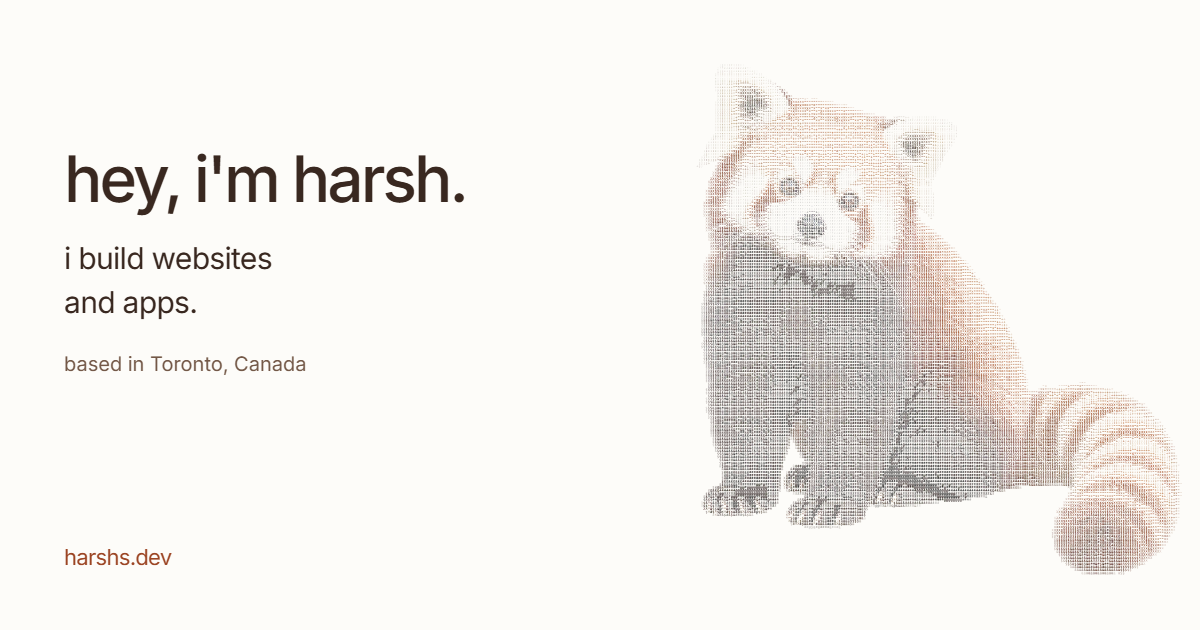
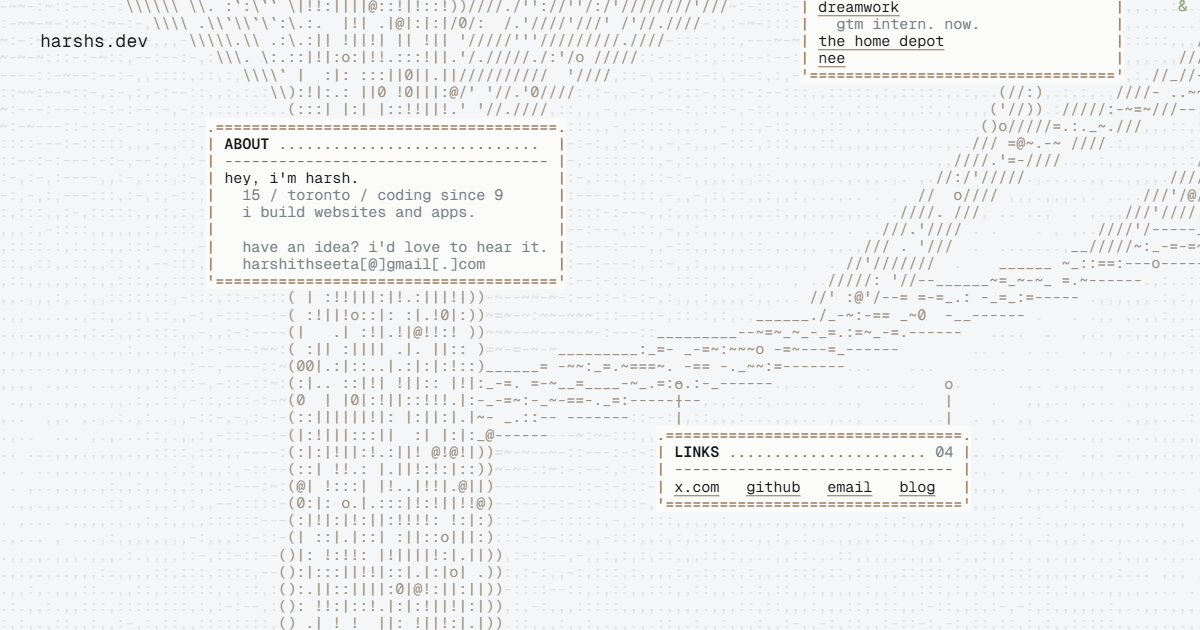
Fit tree to phones, drop recipes, open deep links on the right branch, new OG image

diff --git a/app/components/tree/TreeWorld.tsx b/app/components/tree/TreeWorld.tsx
@@ -1,34 +1,58 @@
 "use client";
 
-import { useCallback, useEffect, useRef, useState } from "react";
+import { useCallback, useEffect, useRef, useState, useSyncExternalStore } from "react";
 import Sign, { type SignData } from "./Sign";
 import type { Station } from "./content";
 import ThemeToggle from "./ThemeToggle";
 
 const ARROW: Record<string, string> = { left: "<-", right: "->", up: "^", down: "v" };
+const PHONE = 640;
+const CW = 0.6; // column width in em
+const LH = 1.143; // row height in em
+
+const onHash = (cb: () => void) => {
+  window.addEventListener("hashchange", cb);
+  return () => window.removeEventListener("hashchange", cb);
+};
+const onResize = (cb: () => void) => {
+  window.addEventListener("resize", cb);
+  return () => window.removeEventListener("resize", cb);
+};
 
 export default function TreeWorld({ html, signs, stations }: { html: string; signs: SignData[]; stations: Station[] }) {
-  const [at, setAt] = useState(() => {
-    if (typeof window === "undefined") return "start";
-    const h = window.location.hash.slice(1);
-    return stations.some((s) => s.id === h) ? h : "start";
-  });
-  const [dragging, setDragging] = useState(false);
+  const hash = useSyncExternalStore(onHash, () => location.hash.slice(1), () => "");
+  const vw = useSyncExternalStore(onResize, () => window.innerWidth, () => 1440);
+  const phone = vw < PHONE;
+  const at = stations.some((s) => s.id === hash) ? hash : "start";
+  const base = stations.find((s) => s.id === at) ?? stations[0];
+  const st = phone && base.phone ? { ...base, ...base.phone } : base;
+
+  const font = phone ? 11 : 15;
+  const scale = phone ? Math.min(1.3, (vw - 24) / (st.fit * CW * font)) : 1;
+
   const [drag, setDrag] = useState({ x: 0, y: 0 });
+  const [dragging, setDragging] = useState(false);
   const dragRef = useRef<{ sx: number; sy: number; ox: number; oy: number } | null>(null);
-  const st = stations.find((s) => s.id === at) ?? stations[0];
+  const worldRef = useRef<HTMLDivElement>(null);
+
+  // First paint lands on the right branch with no pan, then motion turns on.
+  useEffect(() => {
+    const el = worldRef.current;
+    const id = requestAnimationFrame(() => requestAnimationFrame(() => el?.classList.add("is-ready")));
+    return () => cancelAnimationFrame(id);
+  }, []);
 
   const go = useCallback((id: string) => {
     setDrag({ x: 0, y: 0 });
-    setAt(id);
-    if (typeof history !== "undefined") history.replaceState(null, "", id === "start" ? "/" : `/#${id}`);
+    const url = id === "start" ? location.pathname : `#${id}`;
+    history.replaceState(null, "", url);
+    window.dispatchEvent(new HashChangeEvent("hashchange"));
   }, []);
 
   useEffect(() => {
     const onKey = (e: KeyboardEvent) => {
       const dir = { ArrowLeft: "left", ArrowRight: "right", ArrowUp: "up", ArrowDown: "down" }[e.key];
-      if (!dir) return;
-      const n = st.nav.find((x) => x.dir === dir);
+      const n = dir && st.nav.find((x) => x.dir === dir);
       if (n) {
         e.preventDefault();
         go(n.to);
@@ -36,7 +60,7 @@ export default function TreeWorld({ html, signs, stations }: { html: string; sig
     };
     window.addEventListener("keydown", onKey);
     return () => window.removeEventListener("keydown", onKey);
-  }, [st, go]);
+  }, [st.nav, go]);
 
   const onDown = (e: React.PointerEvent) => {
     if ((e.target as HTMLElement).closest("a,button")) return;
@@ -55,12 +79,16 @@ export default function TreeWorld({ html, signs, stations }: { html: string; sig
     setDragging(false);
   };
 
+  const tx = -st.cx * CW * font;
+  const ty = -st.cy * LH * font;
+
   return (
-    <div className="tree-shell" onPointerDown={onDown} onPointerMove={onMove} onPointerUp={onUp} onPointerCancel={onUp}>
+    <div className="tree-shell" style={{ fontSize: font }} onPointerDown={onDown} onPointerMove={onMove} onPointerUp={onUp} onPointerCancel={onUp}>
       <div
+        ref={worldRef}
         className={`tree-world${dragging ? " is-dragging" : ""}`}
         style={{
-          transform: `translate(calc(50vw - ${st.cx} * var(--cw) + ${drag.x}px), calc(50svh - ${st.cy} * var(--lh) + ${drag.y}px))`,
+          transform: `translate(calc(50vw + ${drag.x}px), calc(${phone ? "45svh" : "50svh"} + ${drag.y}px)) scale(${scale}) translate(${tx}px, ${ty}px)`,
         }}
       >
         <pre className="tree-art" aria-hidden="true" dangerouslySetInnerHTML={{ __html: html }} />

diff --git a/app/components/tree/content.ts b/app/components/tree/content.ts
@@ -5,8 +5,25 @@ export type Station = {
   id: string;
   cx: number;
   cy: number;
-  nav: { label: string; to: string; dir: "left" | "right" | "up" | "down" }[];
+  fit: number; // columns that must fit on screen
+  nav: Nav[];
+  phone?: { cx: number; cy: number; fit: number; nav: Nav[] };
 };
+
+type Nav = { label: string; to: string; dir: "left" | "right" | "up" | "down" };
+
+function wrap(text: string, w: number) {
+  const out: string[] = [];
+  let line = "";
+  for (const word of text.split(" ")) {
+    if (line && (line + " " + word).length > w) {
+      out.push(line);
+      line = word;
+    } else line = line ? `${line} ${word}` : word;
+  }
+  if (line) out.push(line);
+  return out;
+}
 
 export type PostLink = { slug: string; title: string; date: string };
 
@@ -37,7 +54,7 @@ export function buildTree(posts: PostLink[]) {
     ],
   };
 
-  const links = hangUnder("links", "start", "LINKS", limbs.links, 31, [
+  const links = hangUnder("links", "links", "LINKS", limbs.links, 31, [
     {
       kind: "links",
       links: [
@@ -67,30 +84,13 @@ export function buildTree(posts: PostLink[]) {
   const writingRows: SignRow[] = [];
   posts.forEach((p, i) => {
     if (i) writingRows.push({ kind: "gap" });
-    writingRows.push({ kind: "item", text: p.title.toLowerCase(), href: `/blog/${p.slug}` });
+    for (const line of wrap(p.title.toLowerCase(), 40)) writingRows.push({ kind: "item", text: line, href: `/blog/${p.slug}` });
     writingRows.push({ kind: "sub", text: p.date.replace(/-/g, ".") });
   });
-  const ww = Math.min(64, Math.max(30, ...posts.map((p) => p.title.length)));
+  const ww = 40;
   const writing = hangUnder("writing", "writing", "WRITING", limbs.writing, ww, writingRows, String(posts.length).padStart(2, "0"), 3);
 
-  const recipes: SignData = {
-    id: "recipes",
-    station: "roots",
-    title: "FAV RECIPES",
-    count: "04",
-    w: 30,
-    hang: 0,
-    x: 262,
-    y: 166,
-    rows: [
-      { kind: "item", text: "gnocchi" },
-      { kind: "item", text: "white sauce rigatoni" },
-      { kind: "item", text: "lasagna" },
-      { kind: "item", text: "tiramisu" },
-    ],
-  };
-
-  const signs = [about, links, built, work, writing, recipes];
+  const signs = [about, links, built, work, writing];
   const mid = (s: SignData) => ({ cx: s.x + (s.w + 4) / 2, cy: s.y + signHeight(s) / 2 - s.hang / 2 });
   const m = (s: SignData) => mid(s);
 
@@ -103,21 +103,32 @@ export function buildTree(posts: PostLink[]) {
         { label: "built", to: "built", dir: "left" },
         { label: "work", to: "work", dir: "right" },
         { label: "writing", to: "writing", dir: "up" },
-        { label: "roots", to: "roots", dir: "down" },
       ],
+      fit: links.x + links.w + 4 - about.x,
+      phone: {
+        ...m(about),
+        fit: about.w + 4,
+        nav: [
+          { label: "built", to: "built", dir: "left" },
+          { label: "work", to: "work", dir: "right" },
+          { label: "writing", to: "writing", dir: "up" },
+          { label: "links", to: "links", dir: "down" },
+        ],
+      },
     },
-    { id: "built", ...m(built), nav: [{ label: "trunk", to: "start", dir: "right" }, { label: "writing", to: "writing", dir: "up" }] },
-    { id: "work", ...m(work), nav: [{ label: "trunk", to: "start", dir: "left" }, { label: "writing", to: "writing", dir: "up" }] },
+    { id: "links", ...m(links), fit: links.w + 4, nav: [{ label: "trunk", to: "start", dir: "up" }, { label: "work", to: "work", dir: "right" }] },
+    { id: "built", ...m(built), fit: built.w + 4, nav: [{ label: "trunk", to: "start", dir: "right" }, { label: "writing", to: "writing", dir: "up" }] },
+    { id: "work", ...m(work), fit: work.w + 4, nav: [{ label: "trunk", to: "start", dir: "left" }, { label: "writing", to: "writing", dir: "up" }] },
     {
       id: "writing",
       ...m(writing),
+      fit: writing.w + 4,
       nav: [
         { label: "built", to: "built", dir: "left" },
         { label: "work", to: "work", dir: "right" },
         { label: "trunk", to: "start", dir: "down" },
       ],
     },
-    { id: "roots", cx: recipes.x + 17, cy: 172, nav: [{ label: "trunk", to: "start", dir: "up" }] },
   ];
   return { signs, stations };
 }

diff --git a/app/globals.css b/app/globals.css
@@ -64,10 +64,12 @@ a:focus-visible, button:focus-visible { outline: 1px dashed var(--wood); outline
 }
 .tree-world {
   position: absolute; left: 0; top: 0;
-  transition: transform 1600ms cubic-bezier(.65, 0, .25, 1);
+  transform-origin: 0 0;
   will-change: transform;
+  opacity: 0;
 }
-.tree-world.is-dragging { transition: none; }
+.tree-world.is-ready { opacity: 1; transition: transform 1600ms cubic-bezier(.65, 0, .25, 1), opacity 300ms ease; }
+.tree-world.is-ready.is-dragging { transition: opacity 300ms ease; }
 .tree-art { margin: 0; font: inherit; line-height: var(--lh); white-space: pre; }
 .tree-art t { color: var(--texture); }
 .tree-art e, .tree-art b { color: var(--bark); font-weight: 400; }
@@ -109,11 +111,10 @@ a:focus-visible, button:focus-visible { outline: 1px dashed var(--wood); outline
 .has-cursor .tree-cursor[data-hot="1"] { width: 18px; height: 18px; left: -9px; top: -9px; border-color: var(--wood); }
 
 @media (max-width: 640px) {
-  .tree-shell { font-size: 11px; }
   .tree-nav { position: fixed; left: 0; right: 0; bottom: 0; display: flex; justify-content: center; gap: 4px; padding: 10px; background: var(--ground); border-top: 1px dashed var(--line); }
   .tree-go { position: static; transform: none; }
 }
-@media (prefers-reduced-motion: reduce) { .tree-world { transition: none; } }
+@media (prefers-reduced-motion: reduce) { .tree-world.is-ready { transition: none; } }
 
 /* blog */
 .page-texture {

diff --git a/app/profile.ts b/app/profile.ts
@@ -11,5 +11,5 @@ export const OG_IMAGE = {
   url: "/og-image.png",
   width: 1200,
   height: 630,
-  alt: "hey, i'm harsh. i build websites and apps. — harshs.dev, with my ASCII red panda on warm off-white paper.",
+  alt: "harshs.dev — an ASCII withered tree with hanging wooden signs: about, links, built, work and writing.",
 };
